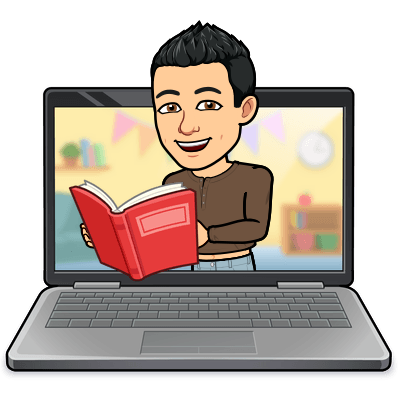
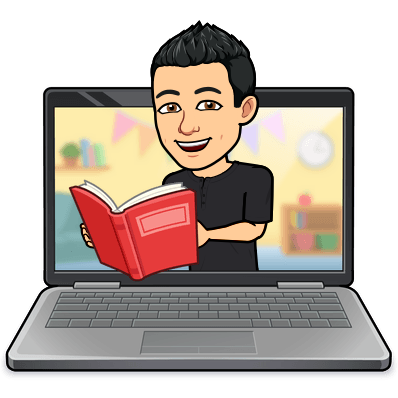
update images; add chel guesser; fix punctuation

Changed region(s): [[0.4221, 0.392, 0.6935, 0.6935]]

diff --git a/src/components/About/About.jsx b/src/components/About/About.jsx
@@ -16,16 +16,16 @@ export const About = () => {
           <li className={styles.aboutItem}>
             <img src={getImageUrl("about/cursorIcon.png")} alt="Cursor icon" />
             <div className={styles.aboutItemText}>
-              <h3>Frontend Developer</h3>
+              <h3>Front-end Developer</h3>
               <p>
-              I have experience in JavaScript, TypeScript, HTML, and CSS, along with a foundation in building mobile applications using React Native.
+              I have experience in JavaScript, TypeScript, HTML, and CSS, along with a foundation in building web and mobile applications using React and React Native.
               </p>
             </div>
           </li>
           <li className={styles.aboutItem}>
             <img src={getImageUrl("about/serverIcon.png")} alt="Server icon" />
             <div className={styles.aboutItemText}>
-              <h3>Backend Developer</h3>
+              <h3>Back-end Developer</h3>
               <p>
               I've worked with C#.NET for web server applications, as well as MUMPS and SQL for server-side development.
               </p>

diff --git a/src/components/Hero/Hero.jsx b/src/components/Hero/Hero.jsx
@@ -9,11 +9,11 @@ export const Hero = () => {
       <div className={styles.content}>
         <h1 className={styles.title}>Hi, I'm Matt</h1>
         <p className={styles.description}>
-          I'm a full-stack software developer with three years of professional experience as a full-stack web developer and three years of experience as a technical solutions engineer. Reach out if you'd like to learn more!
+          I'm a full-stack software developer with four years of professional experience as a full-stack web developer and two years of experience as a technical solutions engineer. Reach out if you'd like to learn more!
         </p>
         <a href="mailto:msaia@umich.edu" className={styles.contactBtn}>Contact Me</a>
       </div>
-      <img src={getImageUrl("hero/heroImage.png")} alt="Hero image of me" className={styles.heroImg}/>
+      <img src={getImageUrl("hero/myPhoto.jpeg")} alt="Hero image of me" className={styles.heroImg}/>
         <div className={styles.topBlur}></div>
         <div className={styles.bottomBlur}></div>
     </section>

diff --git a/src/components/Contact/Contact.jsx b/src/components/Contact/Contact.jsx
@@ -21,7 +21,7 @@ export const Contact = () => {
         </li>
         <li className={styles.link}>
           <img src={getImageUrl("contact/githubIcon.png")} alt="Github Icon" />
-          <a href="https://github.com/msaia11">github.com/MattSaia</a>
+          <a href="https://github.com/msaia11">github.com/msaia11</a>
         </li>
       </ul>
     </footer>

diff --git a/src/components/Hero/Hero.module.css b/src/components/Hero/Hero.module.css
@@ -53,11 +53,14 @@
 .heroImg {
   width: 50%;
   z-index: 1;
+  border-radius: 50%;
+  margin-left: 15px;
 
+  /* Animation
   animation-name: floating;
   animation-duration: 3s;
   animation-iteration-count: infinite;
-  animation-timing-function: ease-in-out;
+  animation-timing-function: ease-in-out; */
 }
 
 @keyframes floating {

diff --git a/index.html b/index.html
@@ -4,7 +4,7 @@
     <meta charset="UTF-8" />
     <link rel="icon" type="image/png" href="/favicon.ico" />
     <meta name="viewport" content="width=device-width, initial-scale=1.0" />
-    <title>My Portfolio</title>
+    <title>Matt Saia Portfolio</title>
   </head>
   <body>
     <div id="root"></div>
